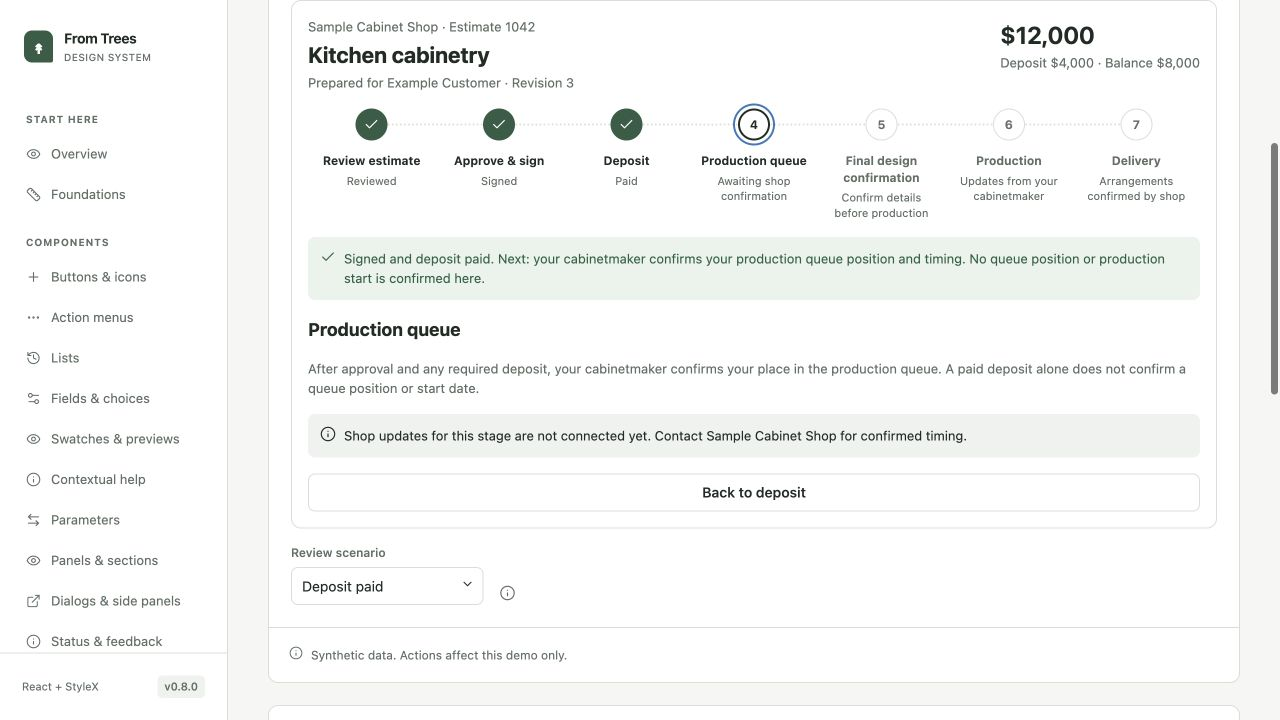
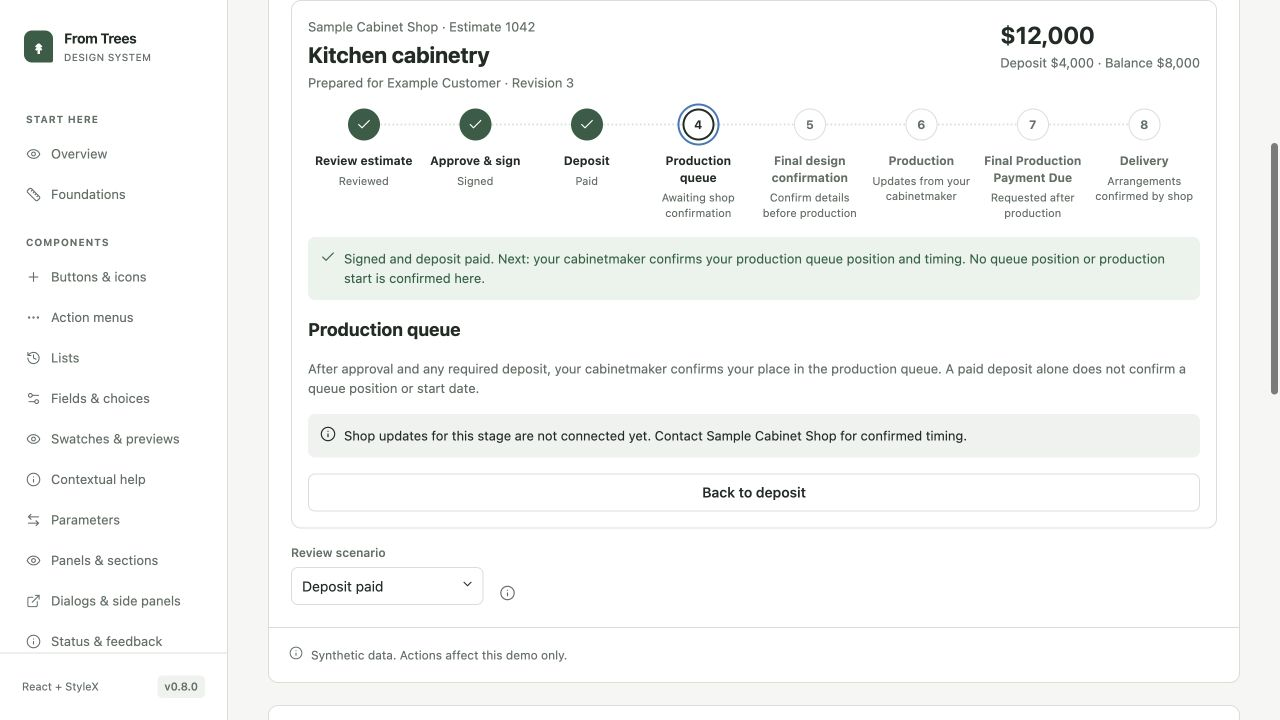
Add final production payment before delivery

Changed region(s): [[0.25, 0.1222, 0.9375, 0.3056], [0.875, 0.1528, 0.9062, 0.1833], [0.7812, 0.1528, 0.8125, 0.1833]]

diff --git a/apps/catalog/src/CustomerJourneyPrototype.tsx b/apps/catalog/src/CustomerJourneyPrototype.tsx
@@ -199,6 +199,13 @@ export function CustomerJourneyPrototype() {
       detail: "Updates from your cabinetmaker",
     },
     {
+      id: "final-payment",
+      label: "Final Production Payment Due",
+      status: "upcoming",
+      available: true,
+      detail: "Requested after production",
+    },
+    {
       id: "delivery",
       label: "Delivery",
       status: "upcoming",
@@ -294,11 +301,17 @@ export function CustomerJourneyPrototype() {
                     ? "Final design confirmation"
                     : selected === "production"
                       ? "Production"
-                      : "Delivery"}
+                      : selected === "final-payment"
+                        ? "Final Production Payment Due"
+                        : "Delivery"}
         </h3>
-        {["queue", "final-design", "production", "delivery"].includes(
-          selected,
-        ) ? (
+        {[
+          "queue",
+          "final-design",
+          "production",
+          "final-payment",
+          "delivery",
+        ].includes(selected) ? (
           <>
             <p {...stylex.props(styles.text)}>
               {selected === "queue"
@@ -307,7 +320,9 @@ export function CustomerJourneyPrototype() {
                   ? "Before production begins, you and your cabinetmaker will confirm the final drawings, dimensions, materials and details. This is a separate confirmation from approving the estimate. Your cabinetmaker will contact you when the final design is ready to review."
                   : selected === "production"
                     ? "Your cabinetmaker will confirm when fabrication begins and provide progress updates. This estimate does not currently track production automatically."
-                    : "Your cabinetmaker will contact you to arrange delivery or installation. This estimate does not currently track delivery automatically."}
+                    : selected === "final-payment"
+                      ? "When production is complete, your cabinetmaker will confirm the remaining balance and send the final payment request before delivery. No final payment has been requested in this example."
+                      : "Your cabinetmaker will contact you to arrange delivery or installation. This estimate does not currently track delivery automatically."}
             </p>
             <Status>
               Shop updates for this stage are not connected yet. Contact Sample

diff --git a/apps/catalog/test/CustomerJourneyPrototype.test.tsx b/apps/catalog/test/CustomerJourneyPrototype.test.tsx
@@ -101,12 +101,12 @@ it("keeps blocked estimates readable and omits payment for approval-only flows",
   ).not.toBeInTheDocument();
 });
 
-it("shows all seven stages without claiming future production or delivery updates", async () => {
+it("shows all eight stages without claiming future production or delivery updates", async () => {
   const user = setup();
   const nav = screen.getByRole("navigation", {
     name: "Your estimate progress",
   });
-  expect(within(nav).getAllByRole("listitem")).toHaveLength(7);
+  expect(within(nav).getAllByRole("listitem")).toHaveLength(8);
   await user.selectOptions(scenario(), "Deposit paid");
   await user.click(
     screen.getByRole("button", { name: /Production queue: Next step/ }),
@@ -126,6 +126,17 @@ it("shows all seven stages without claiming future production or delivery update
   expect(
     screen.getByText(/does not currently track production automatically/),
   ).toBeInTheDocument();
+  await user.click(
+    screen.getByRole("button", {
+      name: /Final Production Payment Due: Upcoming/,
+    }),
+  );
+  expect(
+    screen.getByText(/No final payment has been requested in this example/),
+  ).toBeInTheDocument();
+  expect(
+    screen.queryByRole("button", { name: /Pay final/ }),
+  ).not.toBeInTheDocument();
   await user.click(screen.getByRole("button", { name: /Delivery: Upcoming/ }));
   expect(
     screen.getByText(/does not currently track delivery automatically/),

diff --git a/apps/catalog/src/content.ts b/apps/catalog/src/content.ts
@@ -184,7 +184,7 @@ export const behavior: Partial<Record<PageId, string[]>> = {
     "The shared WorkflowProgress component receives app-defined steps, availability and completion. Navigation never completes approval or payment.",
     "Keep the estimate identity, total and progress above the active stage. Show one focused stage and a short next action, with saved documents available for review.",
     "Review is a local navigation acknowledgment. Signature and payment completion must come from server-confirmed records for this exact estimate revision.",
-    "The full path continues through Production queue, Final design confirmation, Production and Delivery. Future shop stages remain visible without invented dates or automatic completion.",
+    "The full path continues through Production queue, Final design confirmation, Production, Final Production Payment Due and Delivery. Future shop stages remain visible without invented dates or automatic completion.",
     "Card and ACH checkout stay in the existing provider flow. Processing, failure and unresolved payment states must not be presented as paid.",
     "Approval-only estimates omit the payment step. Expired and superseded estimates remain readable, with signing and payment unavailable.",
     "This synthetic catalog flow does not implement legal consent, identity verification, document generation or payment. Preserve those app capabilities in a separate adoption review.",

diff --git a/packages/ui/src/WorkflowProgress.tsx b/packages/ui/src/WorkflowProgress.tsx
@@ -19,7 +19,7 @@ const styles = stylex.create({
   item: { position: "relative", flexGrow: 1, flexBasis: 0, minWidth: 0 },
   connector: {
     position: "absolute",
-    top: 15,
+    top: { default: 15, "@media (max-width: 600px)": 11 },
     insetInlineStart: "50%",
     width: "100%",
     borderTopWidth: 2,
@@ -55,8 +55,8 @@ const styles = stylex.create({
     display: "flex",
     alignItems: "center",
     justifyContent: "center",
-    width: 32,
-    height: 32,
+    width: { default: 32, "@media (max-width: 600px)": 24 },
+    height: { default: 32, "@media (max-width: 600px)": 24 },
     flexShrink: 0,
     borderRadius: "50%",
     backgroundColor: color.surface,

diff --git a/docs/customer-estimate-journey.md b/docs/customer-estimate-journey.md
@@ -1,10 +1,10 @@
 # Customer estimate journey · 0.8.0
 
-Review **Patterns → Customer estimates** (`#customer-journey`) before a separate application integration. The path is **Review → Approve & sign → Deposit → Production queue → Final design confirmation → Production → Delivery**. The last four stages are visible even though shop integrations are not built.
+Review **Patterns → Customer estimates** (`#customer-journey`) before a separate application integration. The path is **Review → Approve & sign → Deposit → Production queue → Final design confirmation → Production → Final Production Payment Due → Delivery**. The last five stages are visible even though shop integrations are not built.
 
 ## Shared component
 
-`WorkflowProgress` receives `label`, app-defined `steps`, `selectedId`, and `onSelect`. Each step supplies a stable `id`, concise `label`, `status` (`complete`, `current`, `upcoming`, `attention`), `detail`, and `available`. Selecting a step only navigates; it never changes completion. The selected view and next due step are distinct. Status is conveyed with text and icons, not color alone. The current task uses `aria-current="step"`; unavailable steps are descriptive and not keyboard actions. Steps form one horizontal sequence of numbered circles joined by a dotted line, with completed steps shown as filled checkmarks and labels underneath. On narrow screens all markers remain visible, with the viewed step label below the line instead of seven crowded text columns.
+`WorkflowProgress` receives `label`, app-defined `steps`, `selectedId`, and `onSelect`. Each step supplies a stable `id`, concise `label`, `status` (`complete`, `current`, `upcoming`, `attention`), `detail`, and `available`. Selecting a step only navigates; it never changes completion. The selected view and next due step are distinct. Status is conveyed with text and icons, not color alone. The current task uses `aria-current="step"`; unavailable steps are descriptive and not keyboard actions. Steps form one horizontal sequence of numbered circles joined by a dotted line, with completed steps shown as filled checkmarks and labels underneath. On narrow screens all markers remain visible, with the viewed step label below the line instead of eight crowded text columns.
 
 The shared package contains no estimate, signing, payment, queue or delivery schema. The catalog supplies those meanings and a synthetic local state machine.
 
@@ -18,14 +18,16 @@ Deposit checkout must retain both card and ACH and the provider-hosted payment f
 
 ## Future shop stages
 
-Production queue becomes the next stage after approval and any required deposit, but displays **Awaiting shop confirmation**. This does not assert a queue position, a scheduled date or production readiness. Final design confirmation, Production and Delivery remain upcoming, with explanatory content and a contact route. The UI must not fabricate dates, mark these stages complete, or imply live tracking. Later integrations can supply authoritative queue/production/delivery events to the same generic progress component.
+Production queue becomes the next stage after approval and any required deposit, but displays **Awaiting shop confirmation**. This does not assert a queue position, a scheduled date or production readiness. Final design confirmation, Production, Final Production Payment Due and Delivery remain upcoming, with explanatory content and a contact route. The UI must not fabricate dates, mark these stages complete, or imply live tracking. Later integrations can supply authoritative queue/production/delivery events to the same generic progress component.
 
 Final design confirmation is a separate review of final drawings, dimensions, materials and details before fabrication begins. It must not be inferred from initial estimate approval or deposit payment. Its future integration must bind confirmation to the exact final design revision.
+
+Final Production Payment Due sits after Production and before Delivery. It remains upcoming until an actual app-owned final payment request exists. Do not infer an amount due, completed payment or delivery clearance from the deposit or production status. Its future integration must use the confirmed remaining balance and server-owned payment eligibility; this example offers no final-payment checkout.
 
 ## Scenarios and integration checklist
 
 - Review, prepared agreement, signed/deposit due, open checkout, processing, paid, failed, unresolved payment, no deposit required, expired and superseded versions.
-- Approval-only links omit deposit navigation according to existing feature availability; this must not imply that a financial deposit is waived. Full payment-enabled journeys display all seven stages.
+- Approval-only links omit deposit navigation according to existing feature availability; this must not imply that a financial deposit is waived. Full payment-enabled journeys display all eight stages.
 - Expired/superseded versions retain document access and disable new signing/payment. Preserve archive/signed-document behavior and application feature gates.
 - Scope navigation state to business, estimate identity and revision. A new revision must not inherit review acknowledgment or signature completion from another version.
 - Preserve backend eligibility, immutable totals/terms/design snapshots, access controls and internal-cost privacy. No navigation change should mutate a design or create revisions.

diff --git a/docs/roadmap.md b/docs/roadmap.md
@@ -62,4 +62,4 @@ Shared ParameterRow now owns the layout for numeric and component editors. Panel
 
 ## 0.8.0 customer journey exploration
 
-WorkflowProgress and the Customer estimates catalog pattern cover Review → Approve & sign → Deposit → Production queue → Final design confirmation → Production → Delivery. Customer UI adoption follows confirmation in a separate Cabinitron diff. Queue, final design confirmation, production and delivery integrations remain future work; their visible steps must not invent confirmed shop status. The next cleanup priority is the customer estimate/approval/payment journey before the remaining admin surfaces. See [journey review and integration checklist](customer-estimate-journey.md).
+WorkflowProgress and the Customer estimates catalog pattern cover Review → Approve & sign → Deposit → Production queue → Final design confirmation → Production → Final Production Payment Due → Delivery. Customer UI adoption follows confirmation in a separate Cabinitron diff. Queue, final design confirmation, production, final-payment and delivery integrations remain future work; their visible steps must not invent confirmed shop status. The next cleanup priority is the customer estimate/approval/payment journey before the remaining admin surfaces. See [journey review and integration checklist](customer-estimate-journey.md).
